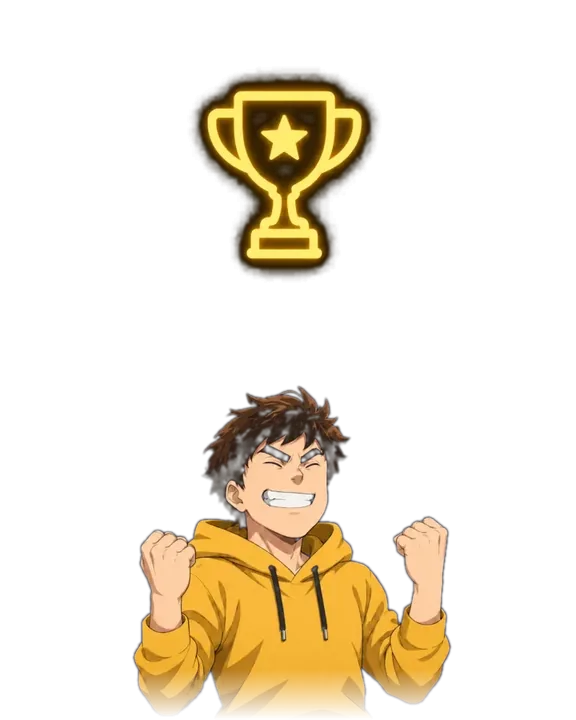
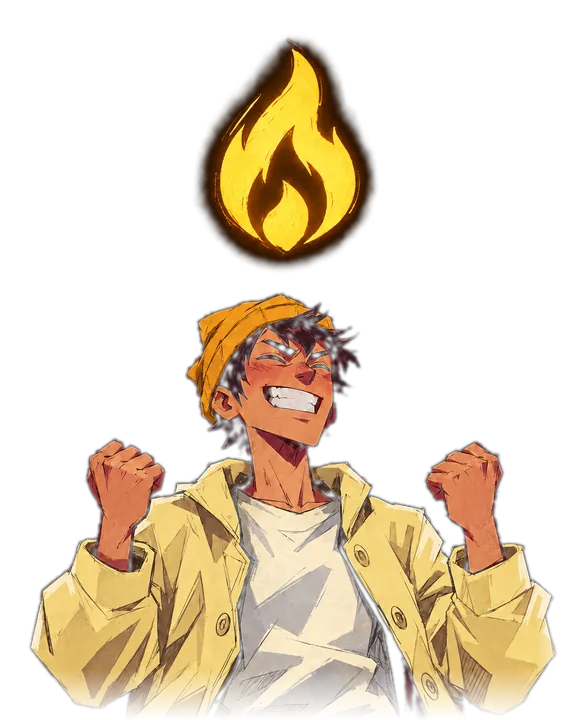
31h: Kd's Dashboard pictures, two boxes in the Challenges grey, "Staff aren’t ranked"
This Week, Your Rank, Latest Badges and Recent Activity take Kd's new pictures,
made small (40 to 101 KB) and see-through where they had a background.
Recommended For You and Recent Activity are a raised box that turns the Weekly
Challenges grey to the right. Layout unchanged.

diff --git a/apps/mobile/src/look/Card.tsx b/apps/mobile/src/look/Card.tsx
@@ -1,6 +1,6 @@
 import type { ReactNode } from "react";
 import { Image, StyleSheet, View, type StyleProp, type ViewStyle } from "react-native";
-import { colours, orangeGradient, pictureShade, shadows, sizes, type ColourName } from "./colours";
+import { colours, orangeGradient, pictureShade, raisedShade, shadows, sizes, type ColourName } from "./colours";
 import { Icon, type IconName } from "./Icon";
 import { pictures, type PictureName } from "./pictures";
 import { fonts, Txt } from "./Txt";
@@ -8,15 +8,17 @@ import { fonts, Txt } from "./Txt";
 interface CardProps {
   /** The web's see-through box, where a page's own picture shows behind it. */
   glass?: boolean;
+  /** Lifted off the page: lighter, a brighter edge and a warm corner, for a box with no picture behind it. */
+  raised?: boolean;
   style?: StyleProp<ViewStyle>;
   testID?: string;
   children: ReactNode;
 }
 
 /** A page's box: dark, with a thin line round it. */
-export function Card({ glass = false, style, testID, children }: CardProps) {
+export function Card({ glass = false, raised = false, style, testID, children }: CardProps) {
   return (
-    <View testID={testID} style={[styles.card, glass ? styles.glass : null, styles.pad, style]}>
+    <View testID={testID} style={[styles.card, glass ? styles.glass : null, raised ? styles.raised : null, styles.pad, style]}>
       {children}
     </View>
   );
@@ -132,6 +134,7 @@ const styles = StyleSheet.create({
     overflow: "hidden",
   },
   glass: { backgroundColor: colours.glass },
+  raised: { backgroundColor: colours.raised, borderColor: colours.lineStrong, experimental_backgroundImage: raisedShade },
   pad: { padding: 14, gap: 10 },
   picture: { borderRadius: 22 },
   // A picture has a size of its own, so it is told the box's; "cover" then cuts it to fit.

diff --git a/apps/mobile/src/look/colours.ts b/apps/mobile/src/look/colours.ts
@@ -92,6 +92,11 @@ export const bandShade =
 /** Over a box's top drawing that fades into the rest of the box (Progress's calendar). */
 export const topShade =
   "linear-gradient(to bottom, rgba(18,17,16,0.5) 0%, rgba(18,17,16,0.45) 45%, rgba(18,17,16,1) 100%)";
+/** A raised box with no picture of its own: dark at its words, turning the neutral silver-grey of the
+ *  Weekly Challenges picture toward its right, so it stands off the page (Kd, 2026-11-08: Recommended
+ *  For You and Recent Activity). */
+export const raisedShade = "linear-gradient(90deg, rgba(26,25,25,1) 0%, rgba(33,32,32,1) 45%, rgba(43,42,42,1) 100%)";
+
 /** Over a picture, so the words on it can be read. */
 export const pictureShade =
   "linear-gradient(to top, rgba(10,9,8,0.94) 0%, rgba(10,9,8,0.45) 50%, rgba(10,9,8,0.05) 100%)";

diff --git a/apps/mobile/test/leaderboardView.test.ts b/apps/mobile/test/leaderboardView.test.ts
@@ -134,7 +134,7 @@ describe("Your Rank's words", () => {
     ["Hide me never says the would-be place", me({ hidden: "hide_me" }), { big: null, of: null, line: "Hidden" }],
     ["under 18", me({ hidden: "under_18" }), { big: null, of: null, line: "Hidden" }],
     ["taken off", me({ hidden: "taken_off" }), { big: null, of: null, line: "Hidden" }],
-    ["staff", me({ hidden: "staff" }), { big: null, of: null, line: "Staff" }],
+    ["staff", me({ hidden: "staff" }), { big: null, of: null, line: "Staff aren’t ranked" }],
     ["no name", me({ hidden: "no_name" }), { big: null, of: null, line: "Add your name" }],
     ["a lapsed plan", { status: "paused" }, { big: null, of: null, line: "Not showing" }],
     ["switched off", { status: "switched_off" }, { big: null, of: null, line: "Not showing" }],

diff --git a/apps/mobile/src/screens/gym/leaderboardView.ts b/apps/mobile/src/screens/gym/leaderboardView.ts
@@ -225,7 +225,7 @@ export function rankWords(board: LeaderboardResponse): { big: string | null; of:
   const what = board.board === "streak" ? tab : `${tab} this week`;
   if (board.status === "paused" || board.status === "switched_off" || board.status === "no_checkins") return { big: null, of: null, line: "Not showing" };
   const { me } = board;
-  if (me.hidden === "staff") return { big: null, of: null, line: "Staff" };
+  if (me.hidden === "staff") return { big: null, of: null, line: "Staff aren’t ranked" };
   if (me.hidden === "no_name") return { big: null, of: null, line: "Add your name" };
   if (me.hidden !== null) return { big: null, of: null, line: "Hidden" };
   if (me.place === null) return { big: null, of: null, line: NOT_RANKED };

diff --git a/apps/mobile/src/screens/Dashboard.tsx b/apps/mobile/src/screens/Dashboard.tsx
@@ -615,7 +615,7 @@ function Recent({ workouts, runs, meals, units, onRun, said }: { workouts: Read<
       ? recentActivity({ workouts: workouts.data.items, runs: runs.data.items, meals: meals.data.items }, 3, units)
       : null;
   return (
-    <Card style={styles.recent} testID="recent-activity">
+    <Card raised style={styles.recent} testID="recent-activity">
       <View style={styles.recentArt}>
         <Image source={pictures.recentworkout} resizeMode="contain" style={styles.recentArtFill} accessible={false} />
       </View>

diff --git a/apps/mobile/src/screens/food/MealIdeas.tsx b/apps/mobile/src/screens/food/MealIdeas.tsx
@@ -359,7 +359,7 @@ export function MealIdeas({ onMore, onAnswered, fresh = 0, below = null, bare = 
   return (
     <>
       {onDashboard ? (
-        <Card style={styles.card} testID="recommended-box">
+        <Card raised style={styles.card} testID="recommended-box">
           <View style={styles.titleRow}>
             <Icon name="target" size={16} colour="orange" />
             <Txt kind="h3" style={styles.boxTitle}>

diff --git a/rulings/2026-11-08-31h.md b/rulings/2026-11-08-31h.md
@@ -10,3 +10,6 @@
 - 2026-11-08 · **Test lightly: the laptop's memory is shared by the folders** (Kd, after one terminal's whole phone test run took the laptop's memory to the edge: *"this keeps happeening all the time write it so that it does not happen again , also other folders need to get the message as well , so all know what to do"*). CLAUDE.md §5's "The laptop's memory is shared": only the job's own test files, by path, one run at a time, never in the background; the whole run is GitHub's; the settings hold the laptop to a few copies of Node (five, below) (jest and vitest when `CI` is not set); a server a terminal started is stopped when its walk is done; free memory over 4 GB before a long run.
 - 2026-11-08 · **Two folders at once, not three, and never slow** (Kd: *"oe thing i dont want it to be extremly slow i have 16 gb men and i run two folder at same time not three"*): more copies of Node at a time on the laptop, not two; CLAUDE.md §5 and §8 say two folders.
 - 2026-11-08 · **About 3 GB left at the lowest is enough** (Kd: *"lowest memeory 3 gb left is enough actully , 5 gb lowest left actually too much"*): five copies of Node, measured to leave 2.9 GB at the lowest; under 9.5 GB free before a run, two copies; under 5 GB, wait and tell Kd.
+- 2026-11-08 · **The Dashboard's new pictures and boxes that stand off the page** (Kd: *"the recommended for you box and the recent activity sections completely blends in with the black background ... keep it dark but need to be distisgushable"*, the four pictures named, *"do minimize pics so no lagging"*, *"no need to change the lay out"*; then *"instead of gold silver type ... like the above pics in where the capibera is working out"*): This Week, Your Rank, Latest Badges and Recent Activity take his pictures (40 to 101 KB each, see-through where the picture had a background); Recommended For You and Recent Activity are a raised box in the Weekly Challenges grey; layout unchanged.
+- 2026-11-08 · *The terminal's own, after Kd asked what "Staff" meant:* Your Rank says "Staff aren’t ranked", as the board does.
+- 2026-11-08 · **A review round for 31h** (Kd: *"need to do review"*), though a screen job skips it.
